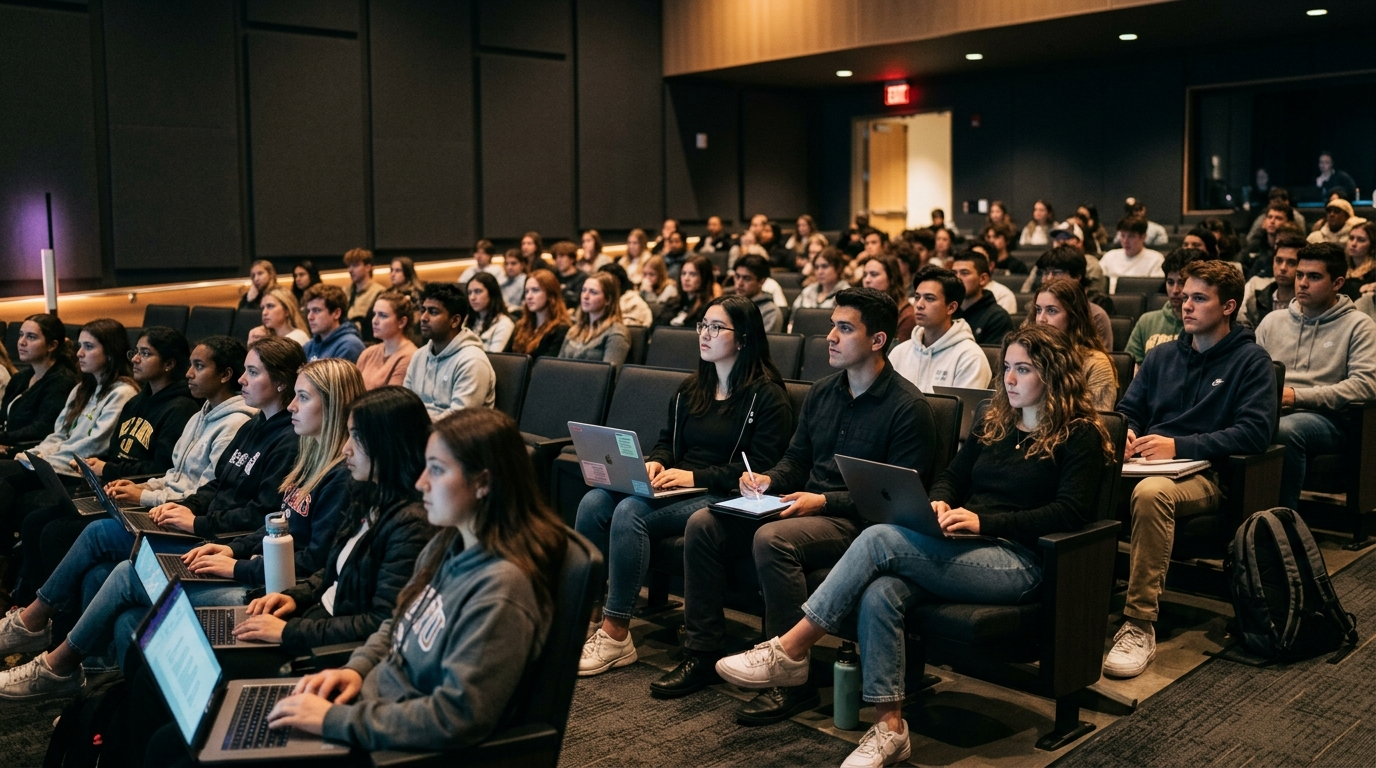
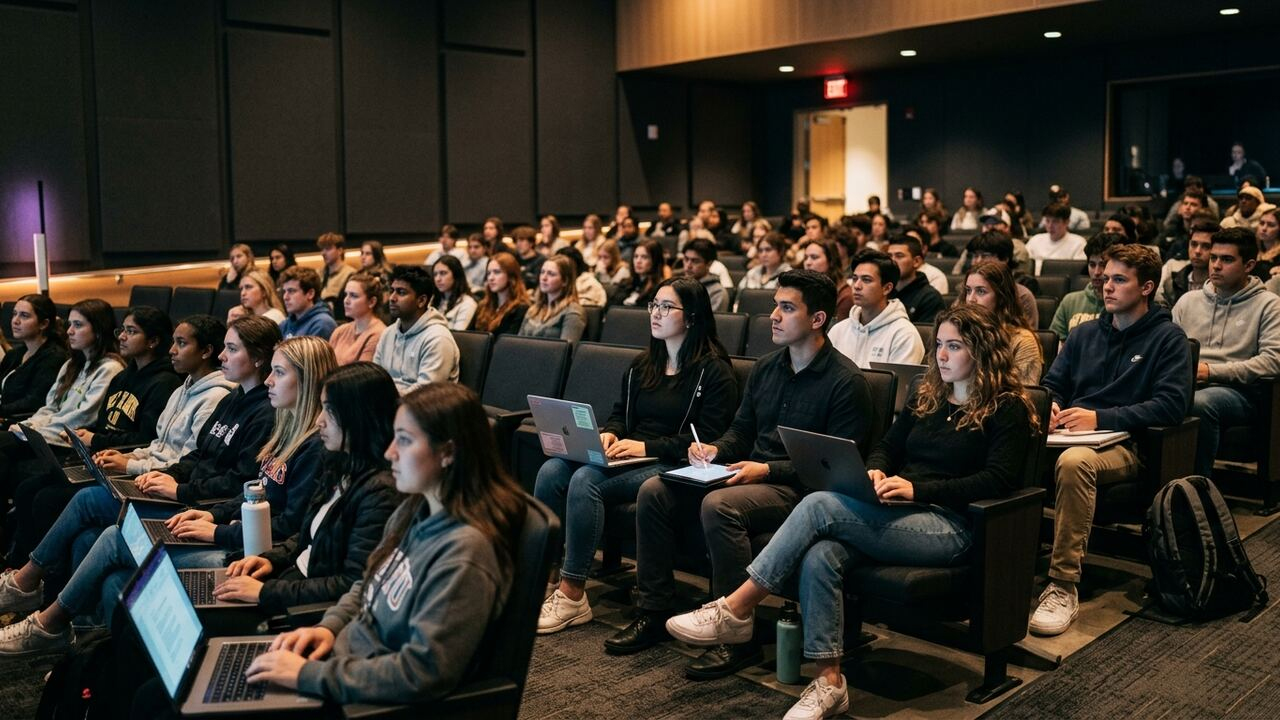
chore: optimize event photos, add contributor entry, compress images 3.4MB→640KB

diff --git a/CONTRIBUTORS.md b/CONTRIBUTORS.md
@@ -20,6 +20,8 @@ This list is maintained by hand alongside the GitHub [contributors graph](https:
   - Add Dheeksharambh 2025 and 2026 events, bid & byte events and cybersecurity workshop data.([#13](https://github.com/TheTuringClubJU/turing-webstie/pull/13))
 - Subham ([@subham-OPS08](https://github.com/subham-OPS08))
   - Implemented generic tabbed hiring results page, created results data registry, and removed home-page results entry points and stale pending copy ([#18](https://github.com/TheTuringClubJU/turing-webstie/pull/18))
+- Swapnil Ghosh ([@swapnilg](https://github.com/swapnilg))
+  - Added Hiring 1st Year Students event card with Read More page, extended details section, 4 event photos, and results JSON (Task B) ([#PR](https://github.com/TheTuringClubJU/turing-webstie/pulls))
 
 <!--
 Add new contributors below this line, following the format above.
